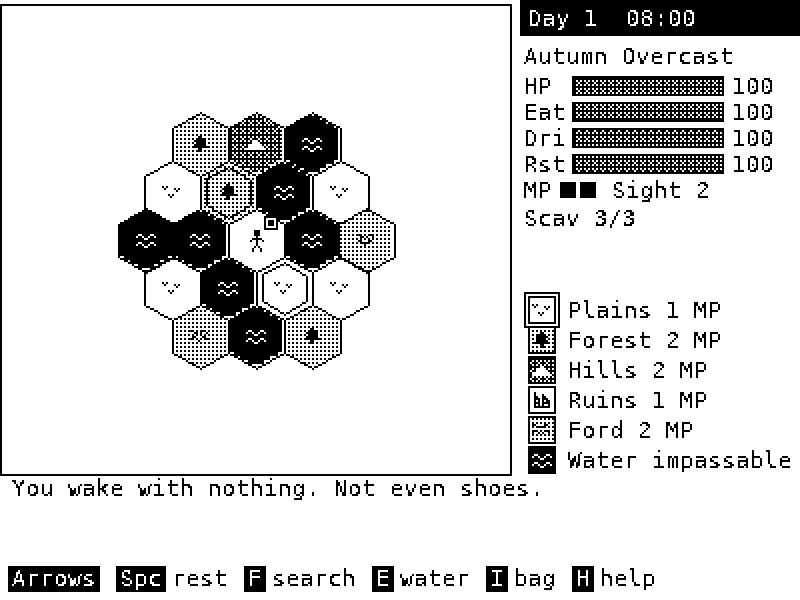
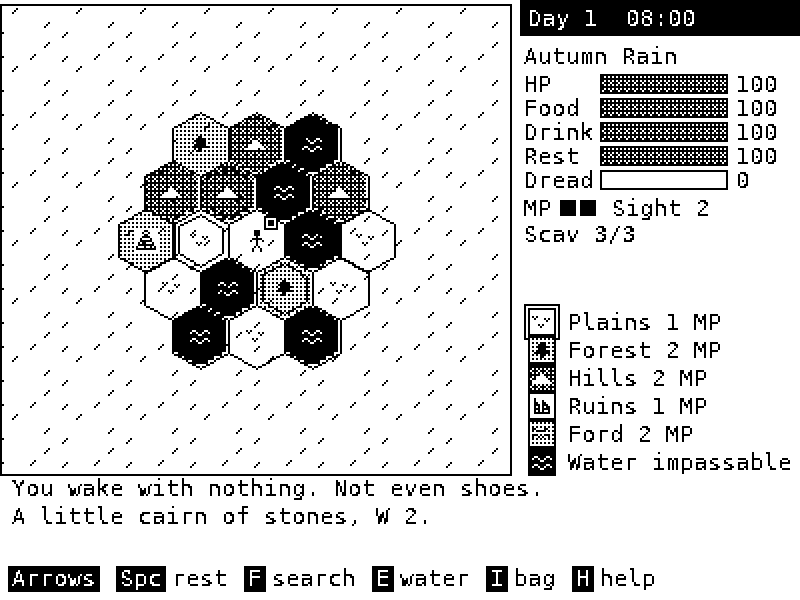
The Churn: a phantom's Continue leaves the fight; crashes show and log their error
At dread 70+ a phantom horror can appear. Every action on it, Continue
included, ran phantom_gone again, so the encounter never ended and the
SolarTerm looked frozen on "You blink. There's nothing there." Now that
only happens before it has vanished, and Continue goes back to the map.

A Lua error in the main loop now writes its traceback to churn/crash.txt
and shows it on screen until a key, so a stuck screen says why.

Claude-Session: https://claude.ai/code/session_01SuvJnz175qPkCT91FUK7Pe

diff --git a/examples/churn/HANDOFF.md b/examples/churn/HANDOFF.md
@@ -143,6 +143,7 @@ The sim is not byte-reproducible between processes (Lua 5.4 varies `pairs` order
 > - **Five mechanics** (2026-10-06, the user picked 1 2 5 9 17): data in `CHURN.pick/scan/dread/bestiary/legacy` (08), code in `src/64_*.lua`. **Lockpick** (`lock_start(npins, done)`, screen "lockpick"): pins 1..5, Up/Down/Enter, hint % at the right notch (55 + 10/Perception + tinker), strain 3 snaps a pick; `pick_crate` marks `crates[key] = "locked"` until opened (`open_crate`), `open_quest_crate` -> `quest_crate_opened` (deep crate 5 pins). **Scan** (radio's last row, `radio_ui.scan`, `scan_key/draw_scan`): `self.scan = {day, stations}`; kinds stash/body/site/voice; body = `radio_body` hex, `scan_arrive` drops a dead churner's things. **Dread** (`p.dread`, `dread(n)`, `dread_hour`, `dread_move` whispers >= 60 / phantoms >= 70 with `def.phantom` -> `phantom_gone`, terror halves rest); conditions/journal show it. **Bestiary** (`self.bestiary[who]`, hooks in start_encounter/watch/enemy_dies, `beast_bonus` on attack/throw/shoot, B in journal, N at the town trader sells full pages). **Legacy** (`save_legacy` in check_death -> `rec.legacy` in records.lua, cleaned in `clean_records`; `place_legacy` in start_game -> `self.legacy.key` + a corpse find; `legacy_arrive` starts The Risen (art long_man for now); `legacy_dies` drops the items, clears records). Saved: bestiary, scan, radio_body, legacy. Perf budget 1950 KB (real peak ~1780-1840). Tests: `mechanics_test.lua`; quest/research tests solve locks with `solve_lock`. Previews: `preview_lockpick.png`, `preview_scan.png`, `preview_bestiary.png`.
 > - **UI pass** (2026-10-06): `src/68_ui.lua`: `Game.ui_title(w, title, right, bh)` (black bar, white bold title, status at the right; the bag/camp use a 16 px bar with their keys there), `Game.ui_keys(w, h, text)` (the footer as key chips; `ui_key_pairs` reads the old footer strings: "Up/Dn pick  Enter make", "Arrows Spc:rest F:search", "any key: back"), `Game.ui_bar` (frame + fill; gray while fine, black when low), `Game.ui_tag` (a label on a black tag: the bag's Ground/Backpack, the fight's range). Every screen uses them; the map panel has bars for HP/eat/drink/rest and MP pips (legend moved to y 148, 15 px rows); encounter and creator choices are black bars. Tests that looked for footer strings now look for the chip words.
 > - **Playtest round 3** (2026-10-07): all clothes cut up (`CHURN.cut.scraps` now lists boots, jacket, belts, bracers, Karl's gear and the hide/pelt pieces; lenses, lamps, masks and carts stay out). The crafting panel shows the output's `item_stats` and `desc` (3 lines at most; the blocker text clips above the log). Books: the first read anywhere (`read_hours` 2), one reread by a fire or at camp (`reread_hours` 4, `books_read[item] = "reread"`), then nothing. Trade rows show `Game:unit_price(col, s)` (yours: worn value; theirs: with `markup_for`), the title your rubles. Bag screen: the ground grid is 8 x 3 cells of 20 px (24 in view before it scrolls), the bag at y 116. New `src/64_status.lua`: P on the map or bag opens the "You" page (a `skills` page, `page = "status"`; `Game:condition_lines()` explains each condition). A Crawler "Watch it" freeze was reported; 400 scripted Crawler fights with a loop guard didn't hang. Tests: `playtest_test` 14-18, `research_test` 4, `bounds_test` (30 ground stacks); preview `preview_status.png`.
+> - **Phantom freeze** (2026-10-07): at dread 70+ a move can raise a phantom (a copy of a night horror, `def.phantom`). `encounter_action` sent every action on one to `phantom_gone`, Continue included, so "You blink. There's nothing there." repeated forever and the screen never left (seen on the SolarTerm as "the Crawler freezes"). Now only while `not e.over`. Test: `mechanics_test` 4. Also new: a crash (any Lua error in the main loop) writes the traceback to `churn/crash.txt` and shows it on a "The Churn crashed" screen until a key or a minute, before `gfx.end` and the re-raise (`crash_test`).
 > - Tests: new `playtest_test.lua`; `trade_test` 4b (rubles), `regression_test` 17, `skills_test` 3, `records_test` 9; `radiation_test` 2 reads every log line (a cairn or a tip could push the feeling off the 3-line log: a flake on ~1 seed in 4).
 >
 > **"13456" (2026-10-03):**

diff --git a/examples/churn/README.md b/examples/churn/README.md
@@ -96,6 +96,8 @@ the Checkpoint alive.
 - **You (P on the map or in the bag):** health, MP, needs, warmth, rads,
   dread and what you can carry; each condition you have and what it is
   doing to you; your attributes and traits.
+- **If it crashes:** the error and where it happened go to `churn/crash.txt`
+  on the card and show on screen; send that file along with a bug report.
 - **On a PC or Raspberry Pi:** `python_version/` runs this same game in a
   pygame window. One command installs it: `install.sh` on Linux or a Pi,
   `install.ps1` on Windows (see its README), or by hand `pip install pygame-ce lupa`,
